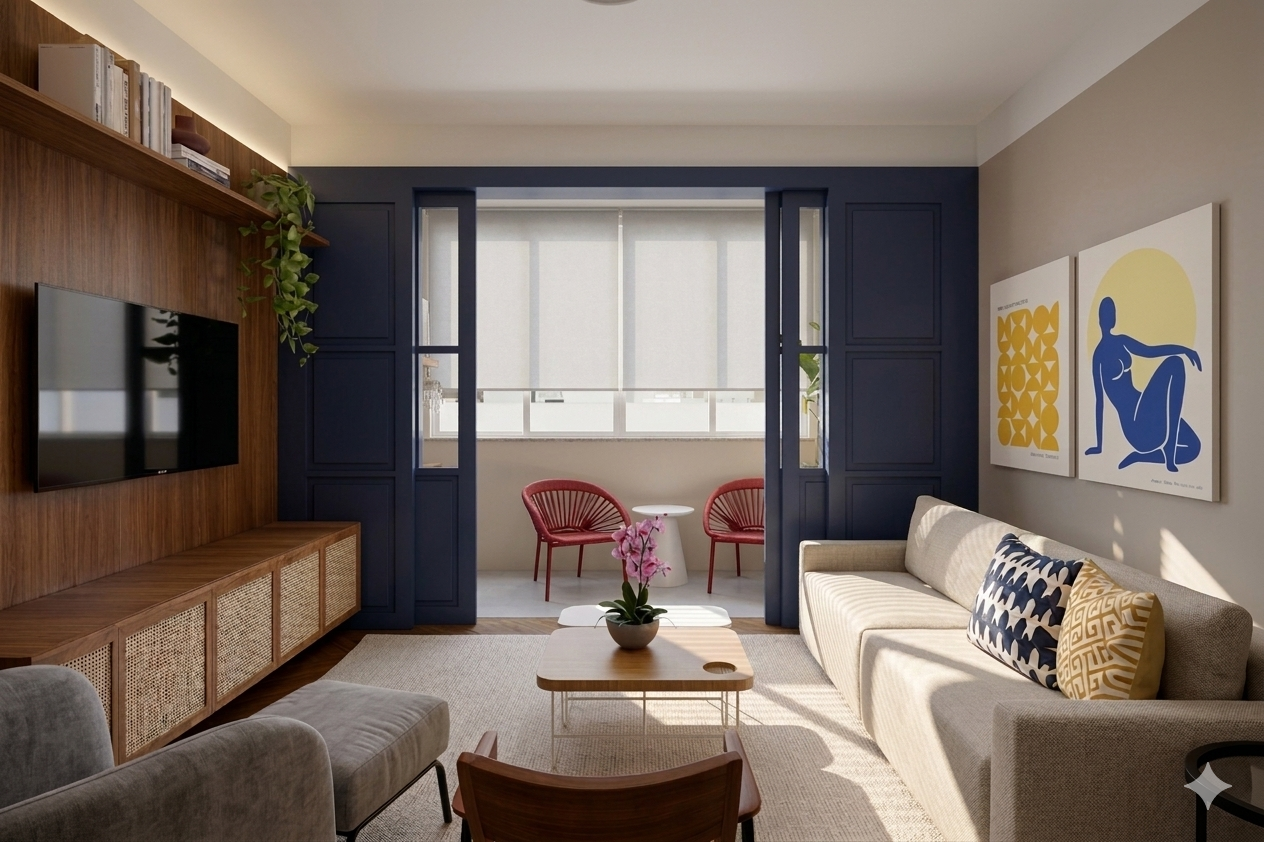
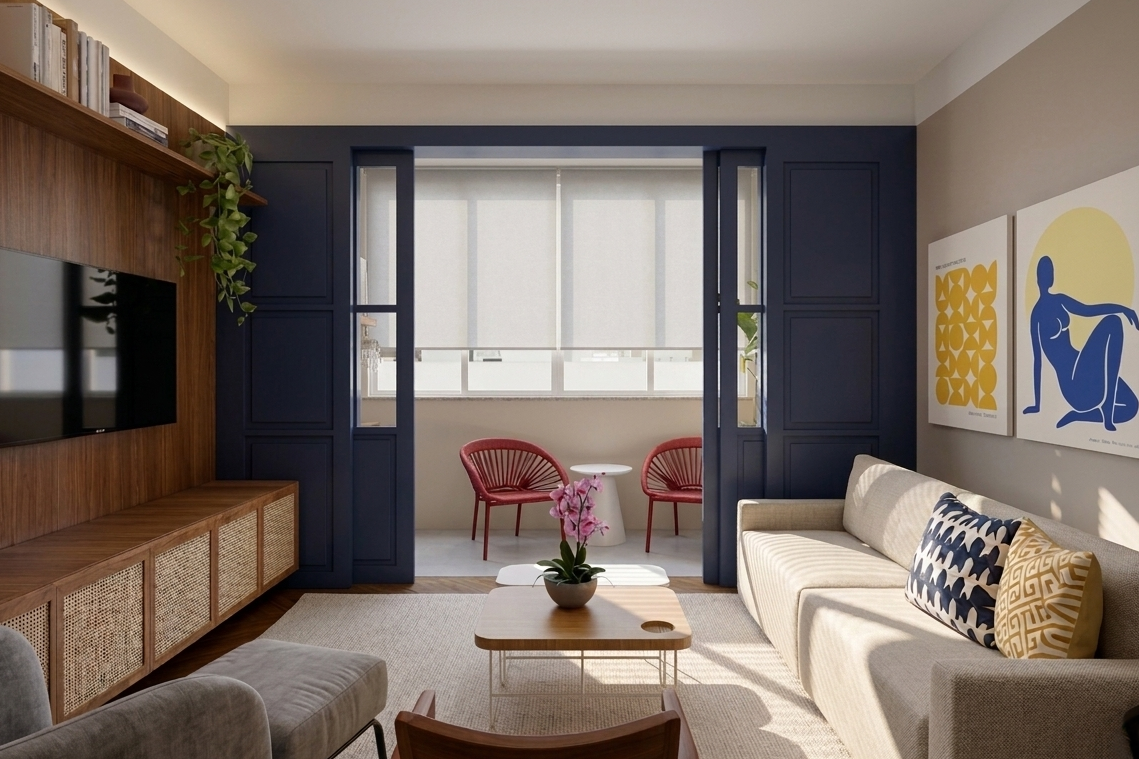
1.3

diff --git a/perfil/index.html b/perfil/index.html
@@ -128,13 +128,14 @@ font-size:6rem !important;
                     </div>
                 </div>
             </div>
-
+ </div>
+            </div>
             <div class="logo-wrap">
                 <h1>
                     Livia Moreira
                     <a href="https://livia-moreira.vercel.app/">
                         <img src="/images/logo%20topo.png" alt="Livia Moreira">
-                    </a>
+                        </a>
                 </h1>
             </div>
 
